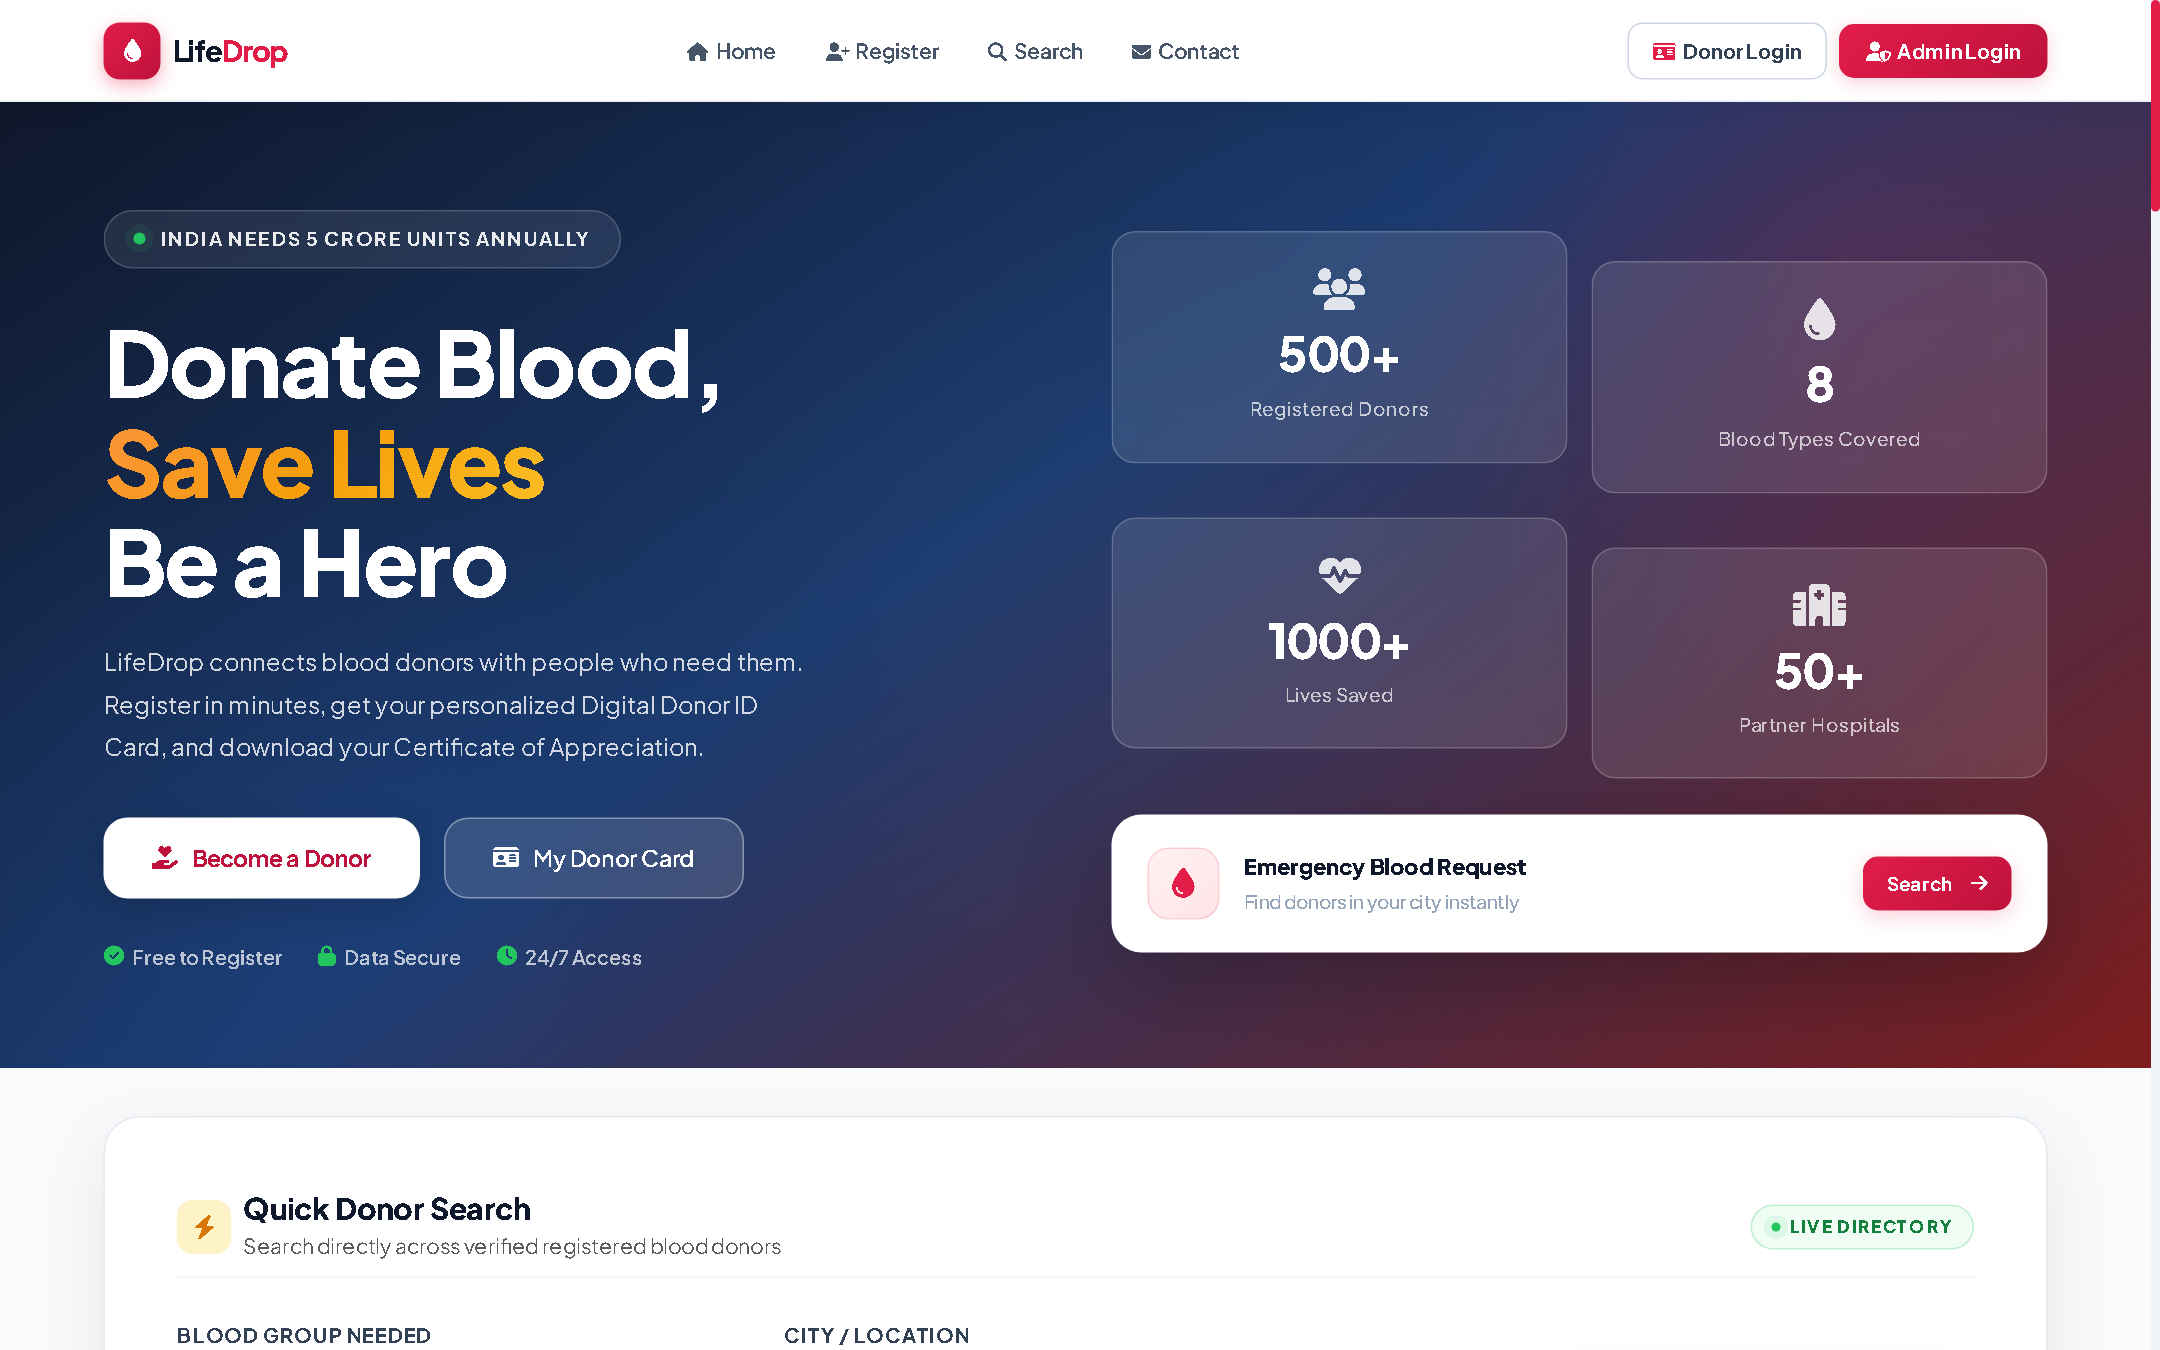
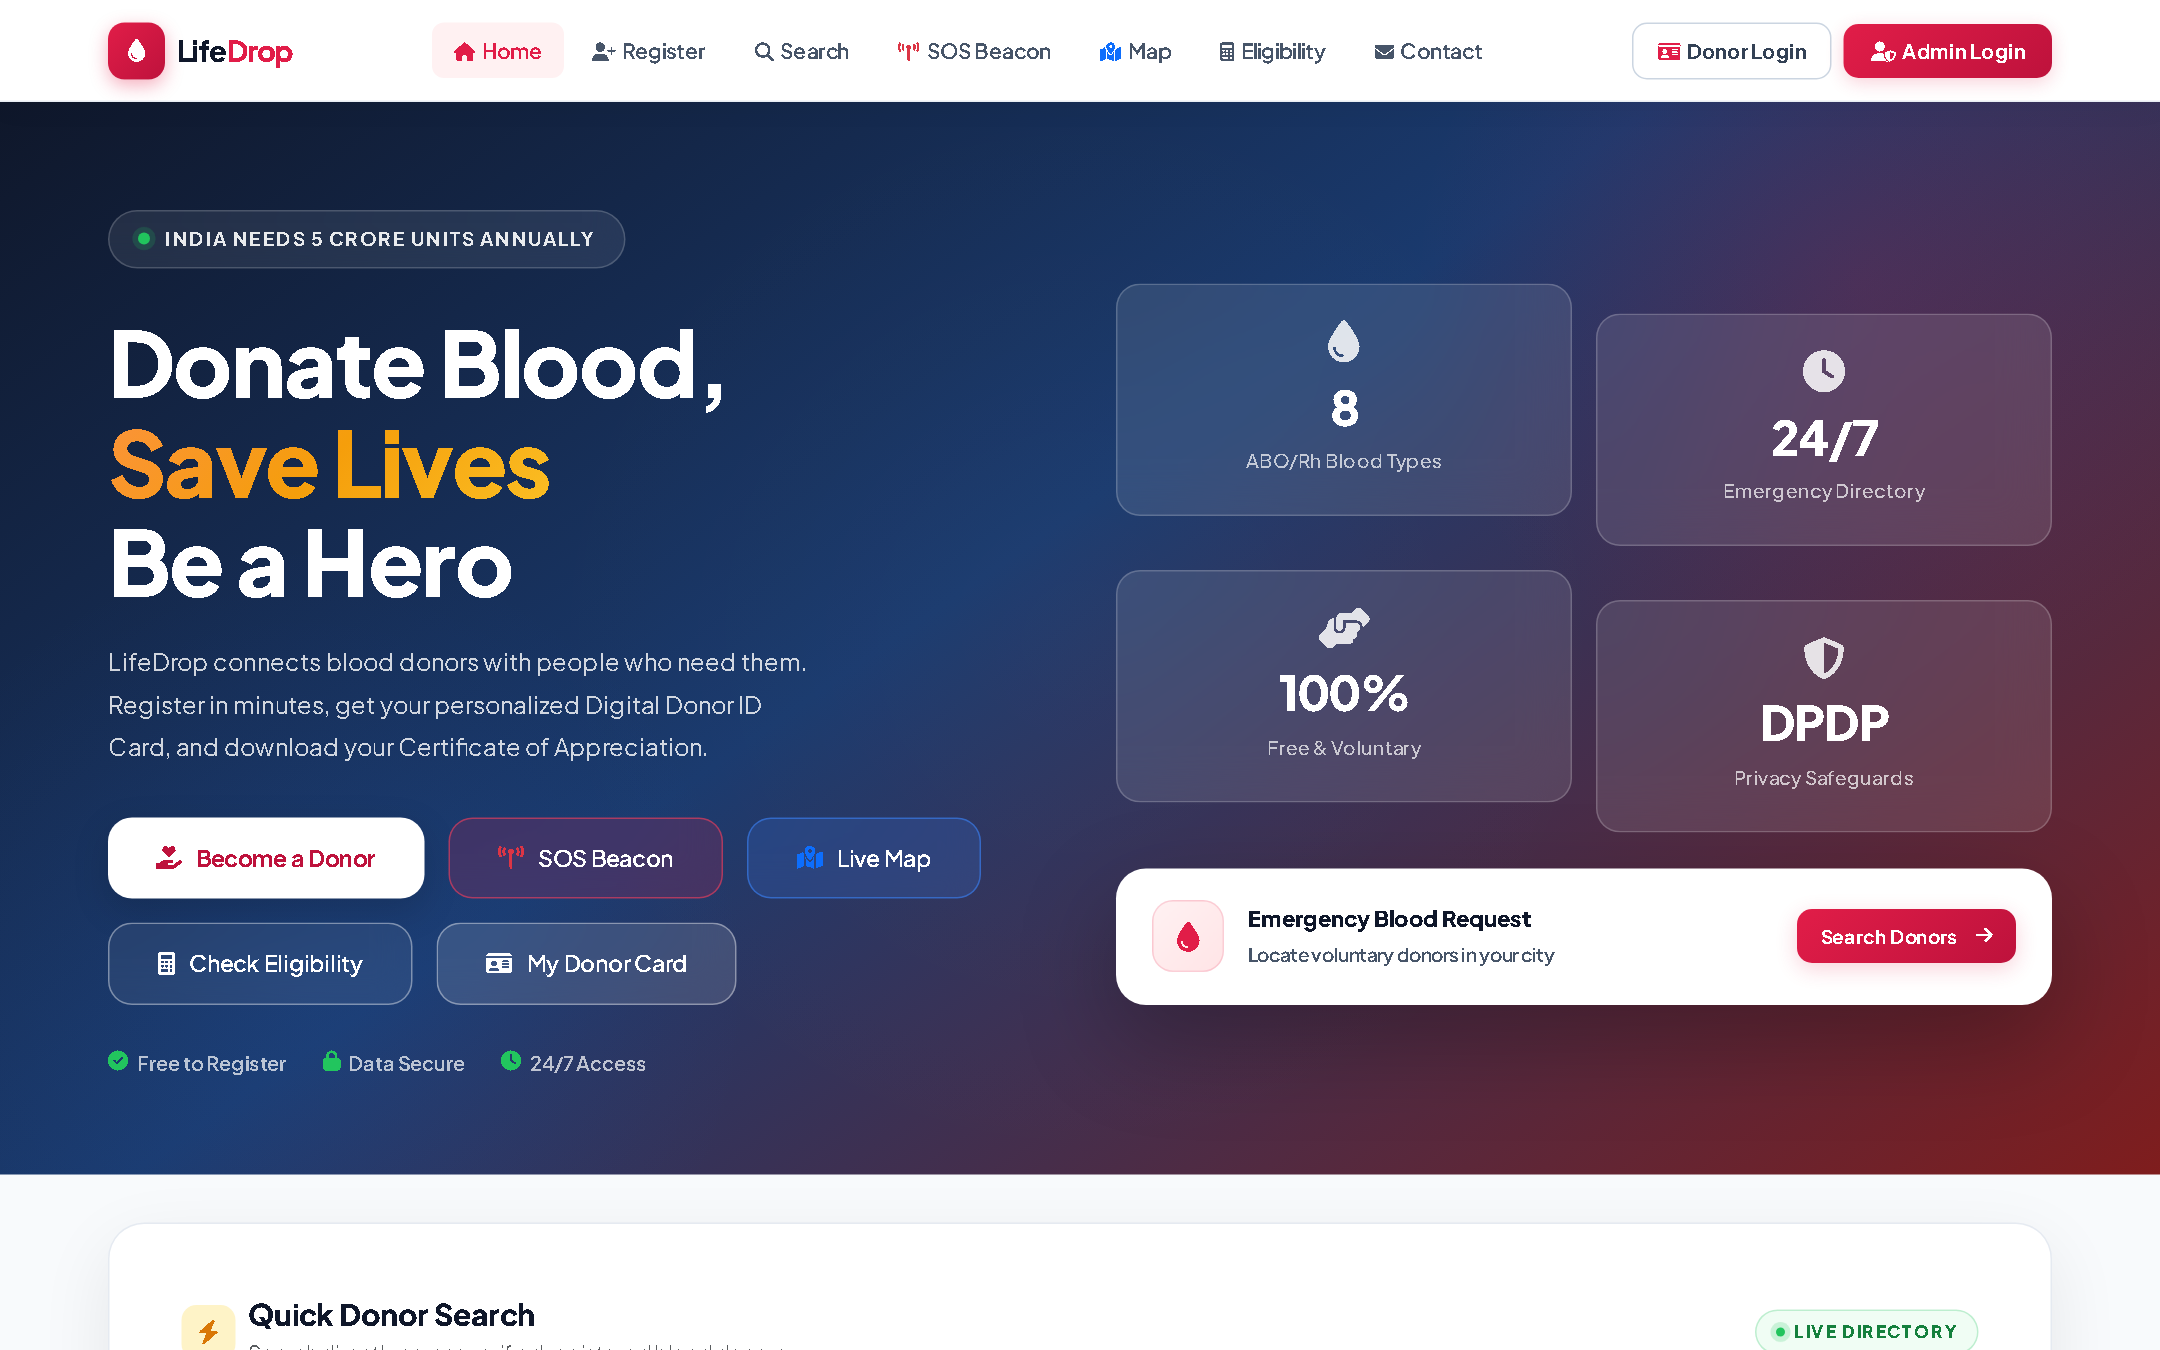
docs(screenshots): replace all screenshots with new captures covering emergency beacon, interactive map, eligibility calculator, and reminder alerts

diff --git a/README.md b/README.md
@@ -153,14 +153,26 @@ The full project report is published directly within the repository in both mark
 ### Home Page & Quick Search
 ![Home Page](screenshots/home.png)
 
-### Donor Registration Portal
-![Donor Registration](screenshots/register.png)
+### 🚨 Real-Time SOS Emergency Blood Broadcast
+![SOS Emergency Broadcast](screenshots/emergency.png)
 
-### Search & Filter Donors
+### 📍 Interactive Leaflet Proximity Map & Blood Bank Locator
+![Interactive Locator Map](screenshots/map.png)
+
+### 🧮 Clinical Donor Eligibility & Next Date Calculator
+![Eligibility Calculator](screenshots/eligibility.png)
+
+### Search & Filter Donors (with 1-Click WhatsApp & Phone Actions)
 ![Search Donors](screenshots/search.png)
 
-### Admin Management Dashboard
+### Donor Onboarding & DPDP Consent Registration Portal
+![Donor Registration](screenshots/register.png)
+
+### Admin Management Dashboard with Chart.js Visual Analytics
 ![Admin Dashboard](screenshots/dashboard.png)
+
+### 📲 Statutory Renewal & Spacing Reminders
+![Renewal Reminders](screenshots/reminders.png)
 
 ### Personalized Digital Donor ID Card
 ![Donor Card](screenshots/donor-card.png)
